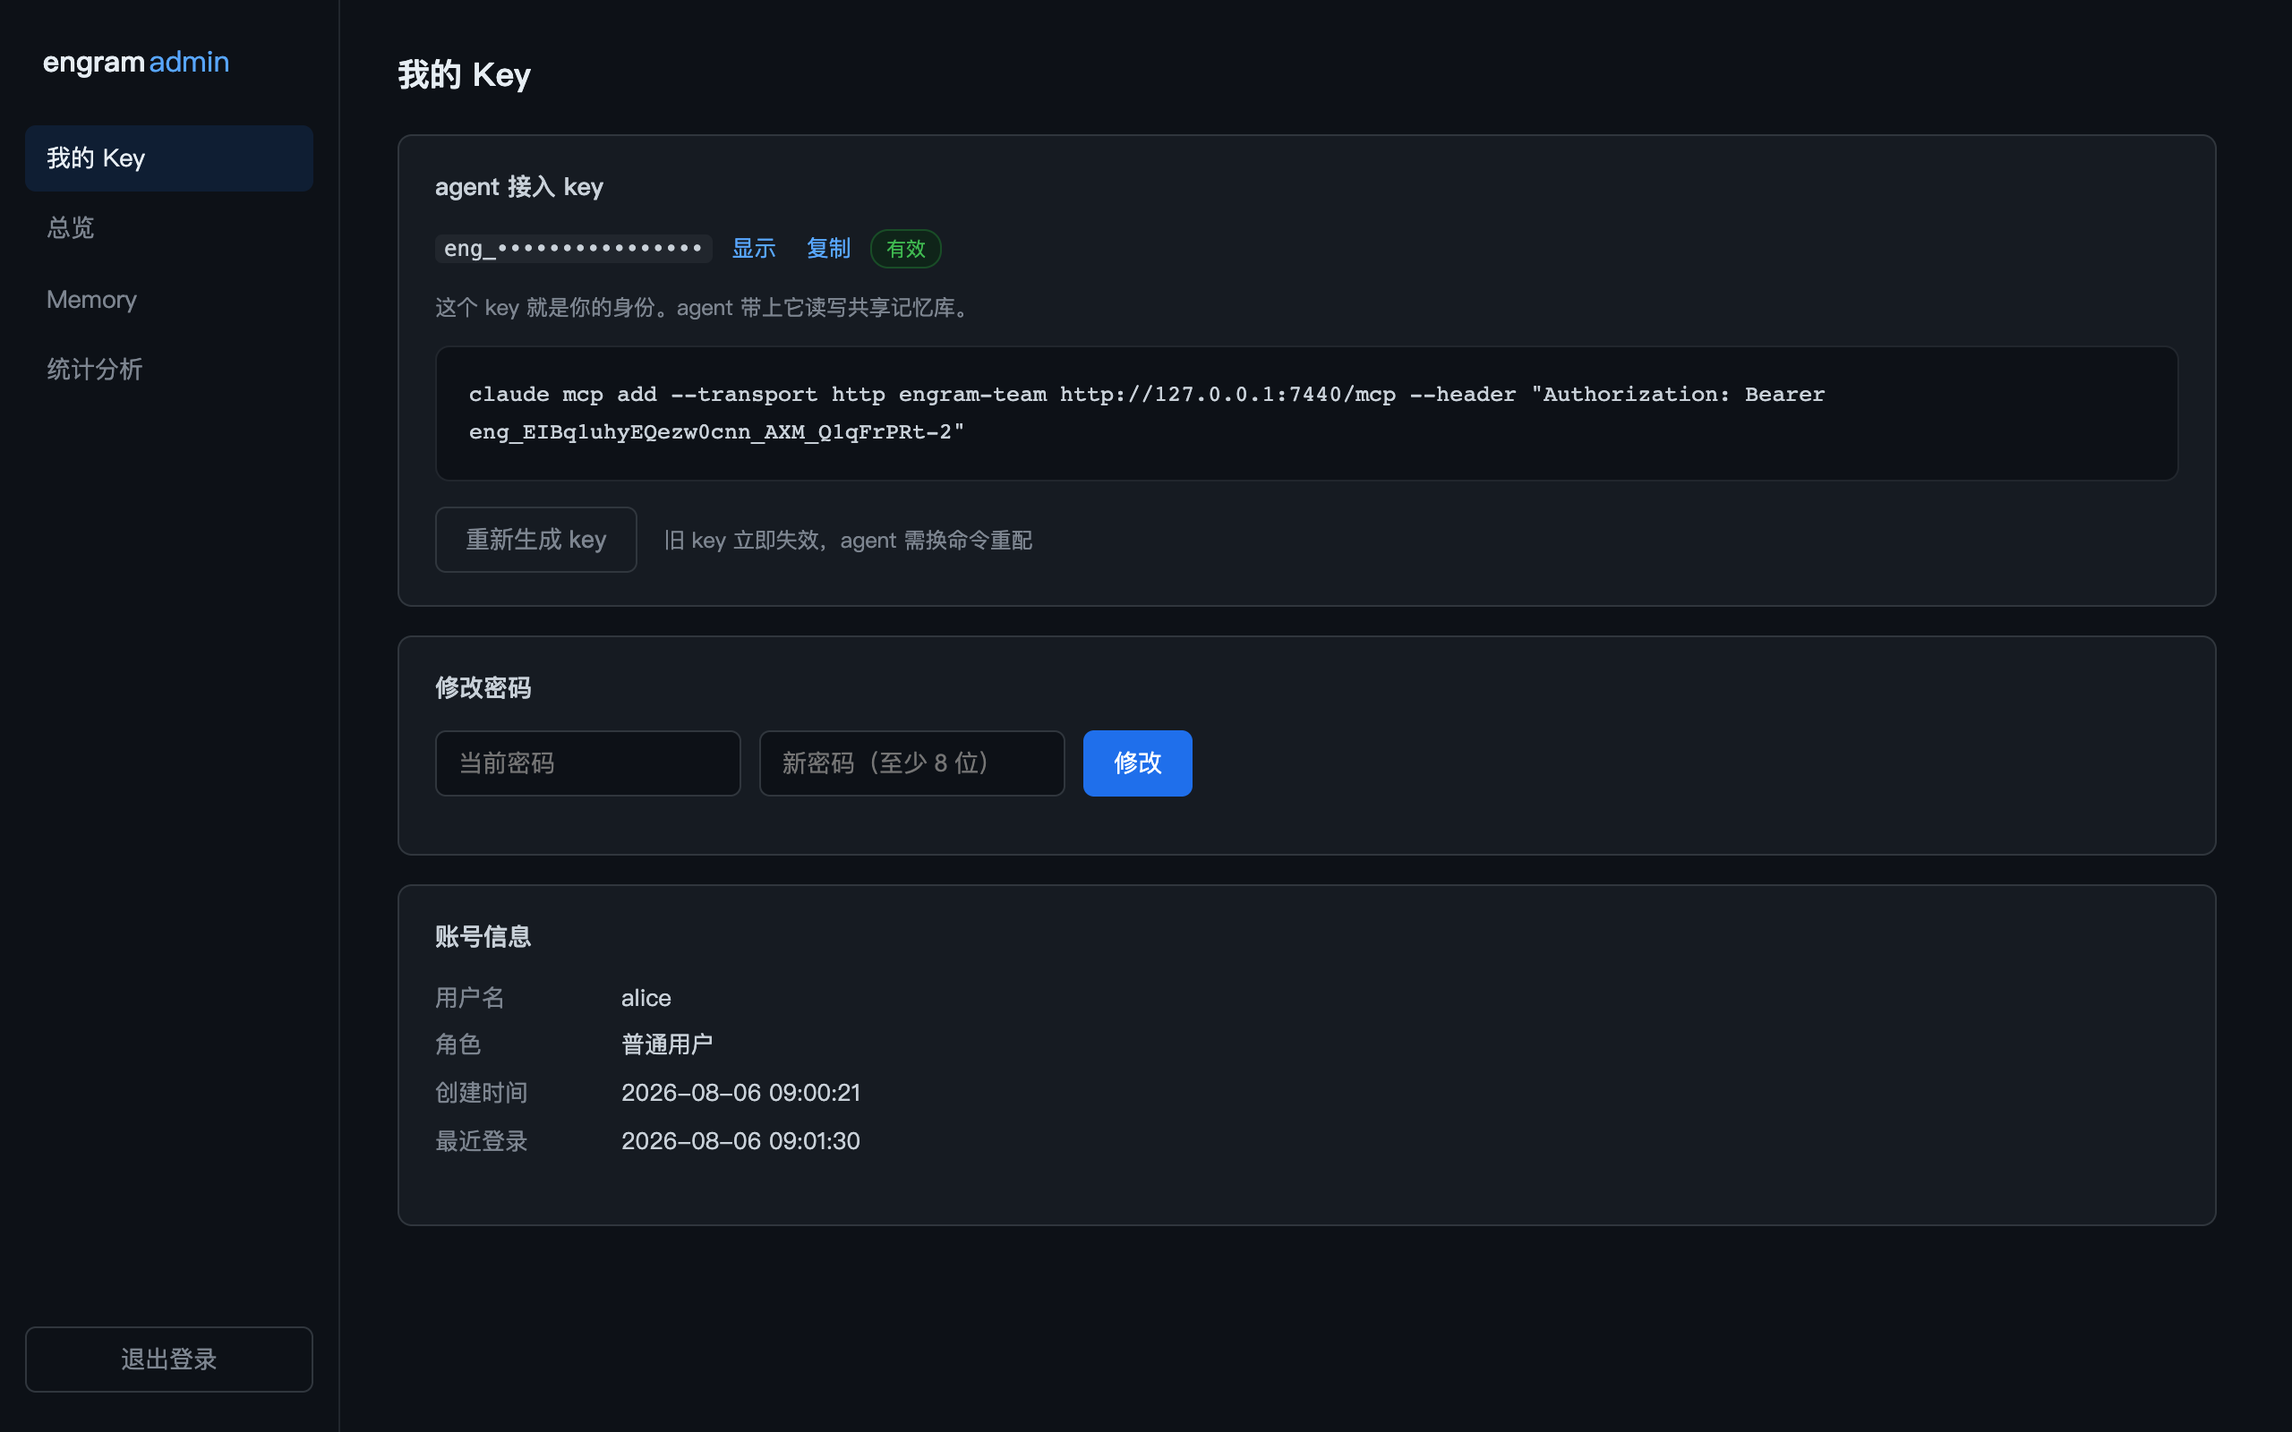
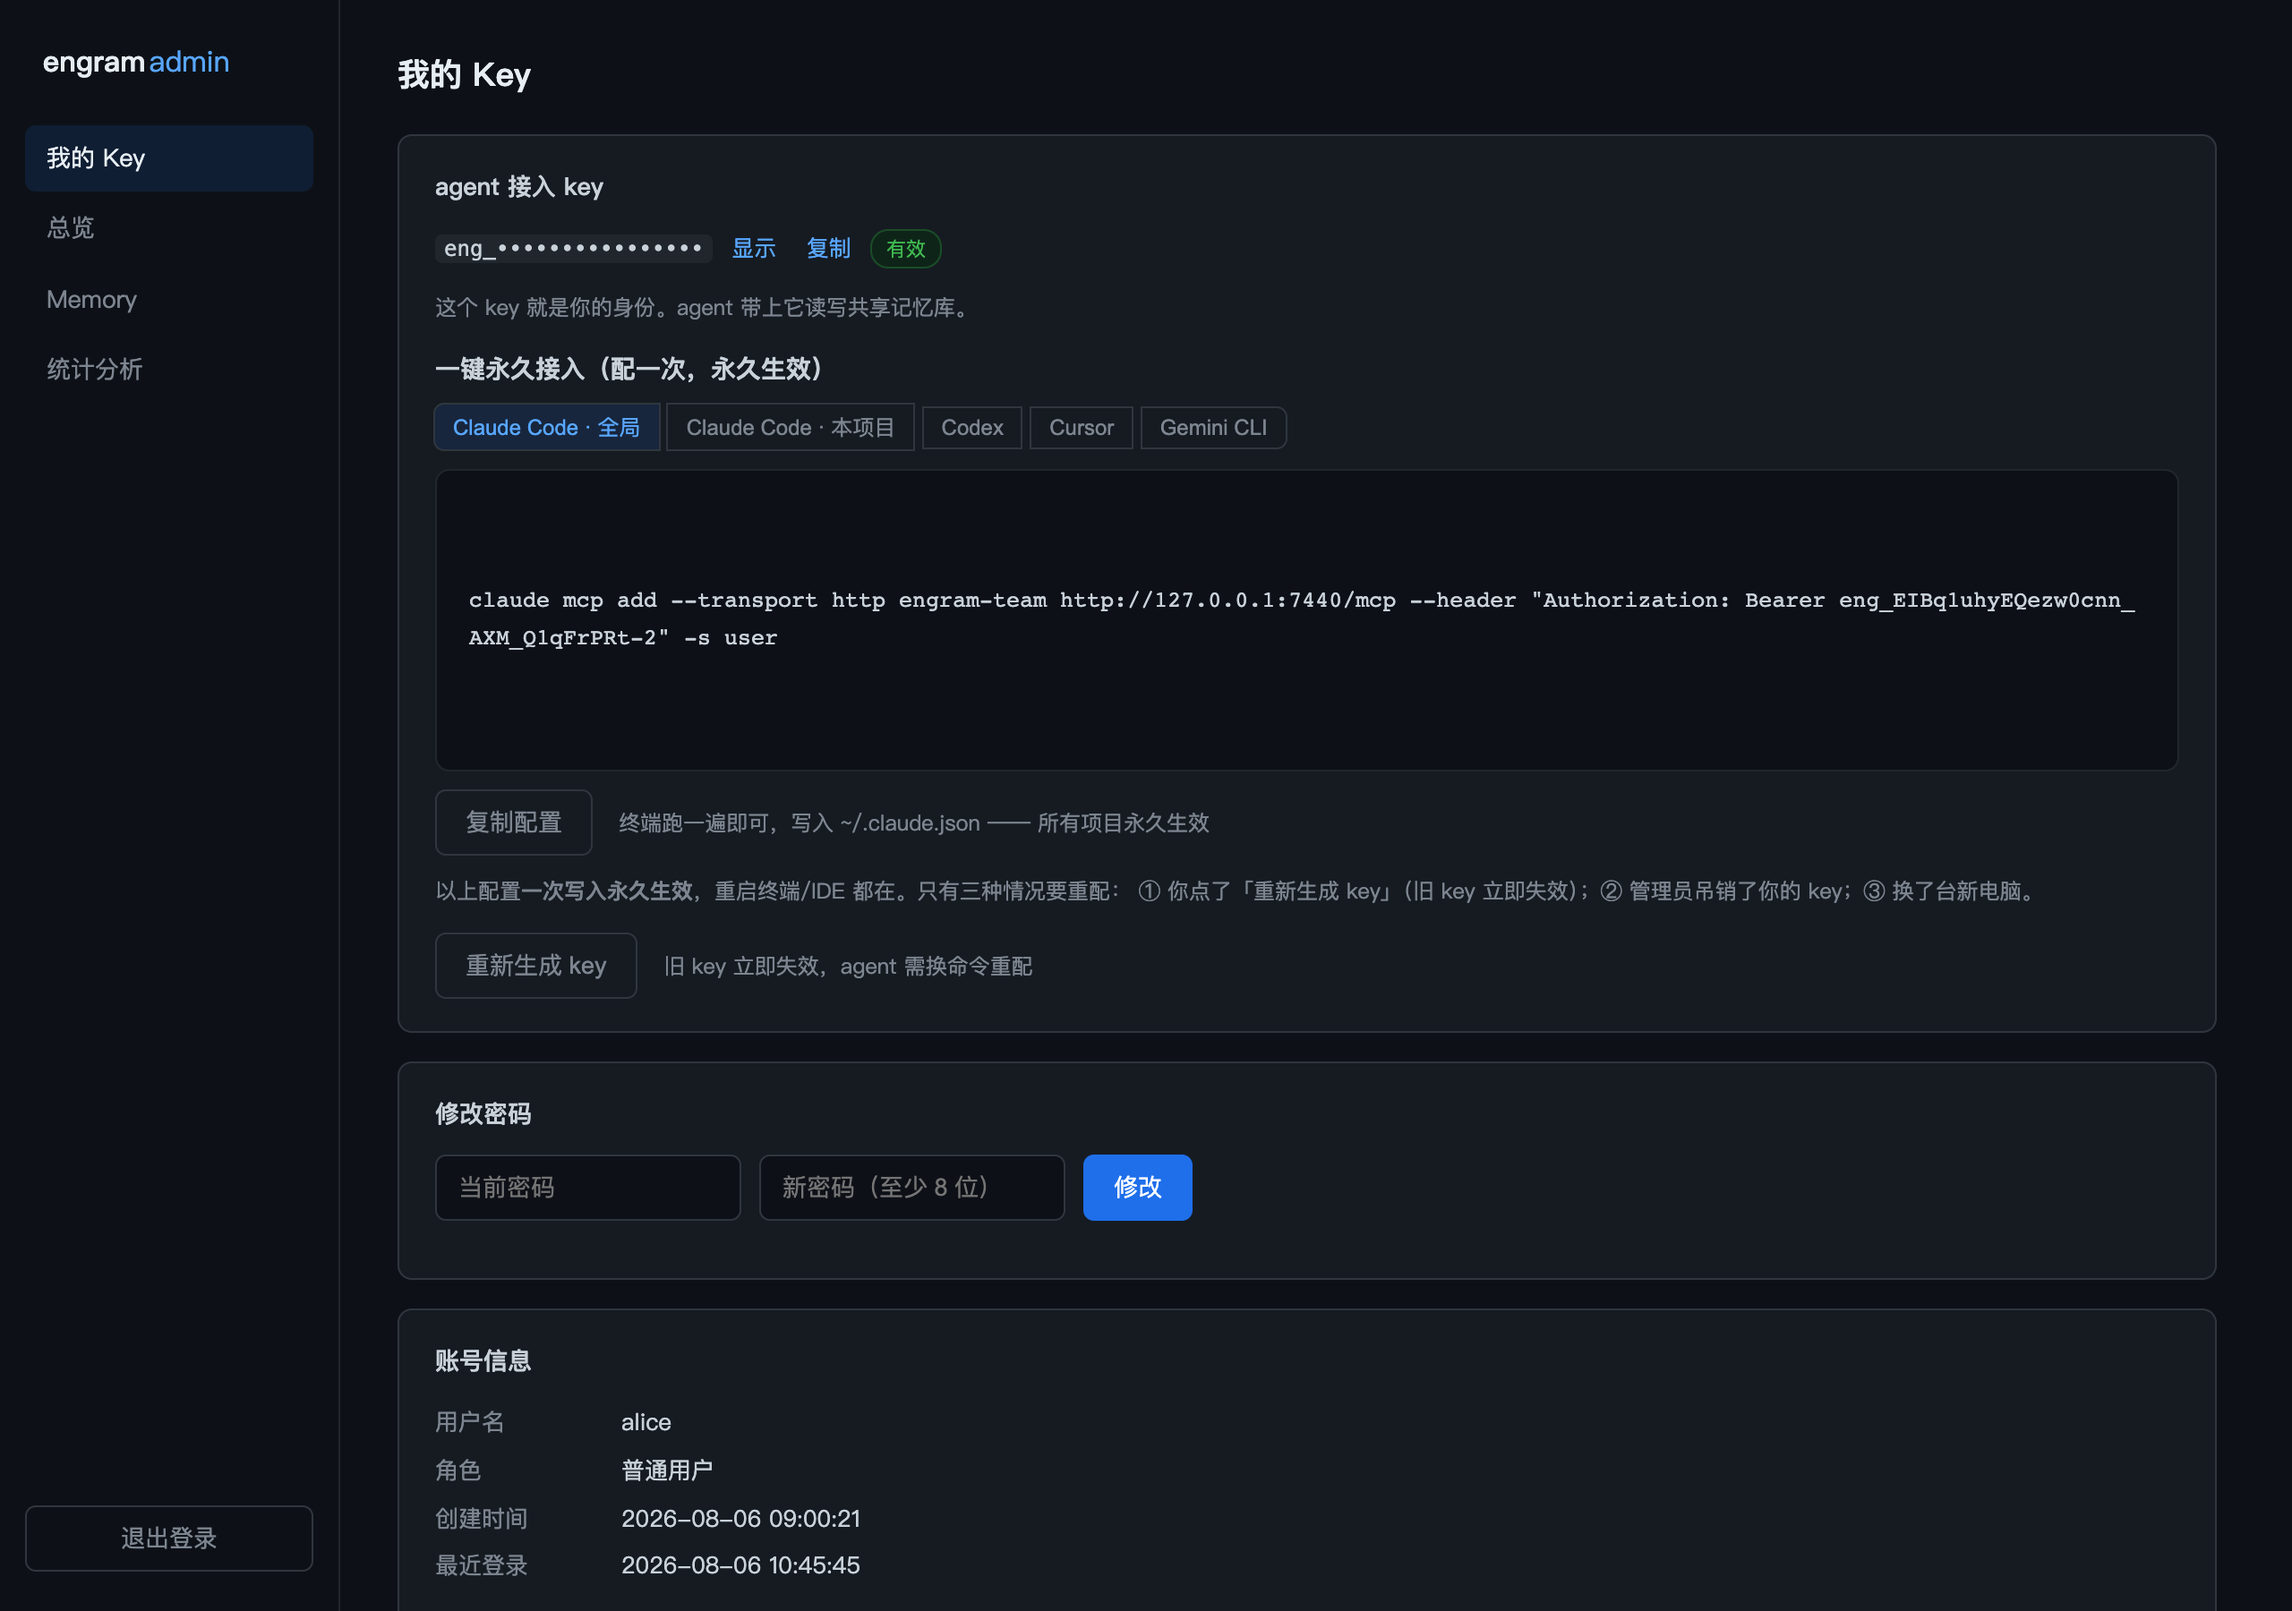
admin: multi-client permanent onboarding on My Key page
- tabbed copy-ready snippets: Claude Code (-s user / -s project), Codex
  (config.toml), Cursor (mcp.json), Gemini CLI (settings.json)
- per-snippet copy button + hint showing which file it lands in
- docs: CONFIG.md client onboarding rewritten per-client; me.png updated

diff --git a/admin/static/app.js b/admin/static/app.js
@@ -169,7 +169,7 @@ function renderMeToken(d) {
   const has = !!meState.token;
   $("#me-token-row").classList.toggle("hidden", !has);
   $("#me-no-token").classList.toggle("hidden", has);
-  $("#me-join-cmd").parentElement && ($("#me-join-cmd").style.display = has ? "" : "none");
+  $("#me-join").style.display = has ? "" : "none";
   if (!has) return;
   const shown = meState.revealed ? meState.token : "eng_••••••••••••••••";
   $("#me-token").textContent = shown;
@@ -177,9 +177,52 @@ function renderMeToken(d) {
   const revoked = d && d.token_revoked;
   $("#me-token-state").innerHTML = revoked
     ? ` <span class="tag off">已吊销</span>` : ` <span class="tag ok">有效</span>`;
-  $("#me-join-cmd").textContent =
-    `claude mcp add --transport http engram-team ${state.meta.mcp_url} --header "Authorization: Bearer ${meState.token}"`;
+  renderJoin();
 }
+
+/* join snippets: token already filled, copy-ready */
+const joinState = { key: "claude-user" };
+
+function joinSnippet(k) {
+  const url = state.meta.mcp_url, tok = meState.token;
+  switch (k) {
+    case "claude-user":
+      return `claude mcp add --transport http engram-team ${url} --header "Authorization: Bearer ${tok}" -s user`;
+    case "claude-project":
+      return `claude mcp add --transport http engram-team ${url} --header "Authorization: Bearer ${tok}" -s project`;
+    case "codex":
+      return `# 追加到 ~/.codex/config.toml\n[mcp_servers.engram-team]\nurl = "${url}"\nhttp_headers = { Authorization = "Bearer ${tok}" }`;
+    case "cursor":
+      return `// 合并进 ~/.cursor/mcp.json（保留你已有的其他 server）\n{\n  "mcpServers": {\n    "engram-team": {\n      "url": "${url}",\n      "headers": { "Authorization": "Bearer ${tok}" }\n    }\n  }\n}`;
+    case "gemini":
+      return `// 合并进 ~/.gemini/settings.json（保留你已有的其他 server）\n{\n  "mcpServers": {\n    "engram-team": {\n      "httpUrl": "${url}",\n      "headers": { "Authorization": "Bearer ${tok}" }\n    }\n  }\n}`;
+  }
+  return "";
+}
+
+const JOIN_HINTS = {
+  "claude-user": "终端跑一遍即可，写入 ~/.claude.json —— 所有项目永久生效",
+  "claude-project": "终端跑一遍即可，写入 ./.mcp.json —— 可提交 git 全组共享（注意别泄露 key）",
+  "codex": "手动编辑文件，配置立即生效；Codex 较老版本字段名可能是 experimental_http_headers",
+  "cursor": "手动编辑文件，Cursor 重启后生效（Settings → MCP 可看状态）",
+  "gemini": "手动编辑文件，下次启动 gemini 生效",
+};
+
+function renderJoin() {
+  $("#join-snippet").textContent = joinSnippet(joinState.key);
+  $("#join-hint").textContent = JOIN_HINTS[joinState.key] || "";
+  $("#join-copy").textContent = "复制配置";
+}
+
+document.querySelectorAll("#join-seg button").forEach((b) => (b.onclick = () => {
+  joinState.key = b.dataset.k;
+  document.querySelectorAll("#join-seg button").forEach((x) => x.classList.toggle("on", x === b));
+  renderJoin();
+}));
+
+$("#join-copy").onclick = function () {
+  navigator.clipboard.writeText(joinSnippet(joinState.key)).then(() => (this.textContent = "已复制 ✓"));
+};
 
 $("#me-token-reveal").onclick = function () {
   meState.revealed = !meState.revealed;

diff --git a/admin/static/index.html b/admin/static/index.html
@@ -48,7 +48,27 @@
           <span id="me-token-state"></span>
         </div>
         <p class="muted small">这个 key 就是你的身份。agent 带上它读写共享记忆库。</p>
-        <div class="mem-content" id="me-join-cmd" style="margin-top:12px; font-family:ui-monospace,monospace; font-size:12.5px"></div>
+        <div id="me-join" style="margin-top:14px">
+          <h4 style="margin:0 0 8px">一键永久接入（配一次，永久生效）</h4>
+          <div class="seg" id="join-seg">
+            <button data-k="claude-user" class="on">Claude Code · 全局</button>
+            <button data-k="claude-project">Claude Code · 本项目</button>
+            <button data-k="codex">Codex</button>
+            <button data-k="cursor">Cursor</button>
+            <button data-k="gemini">Gemini CLI</button>
+          </div>
+          <div class="mem-content" style="margin-top:10px">
+            <pre id="join-snippet" style="margin:0;white-space:pre-wrap;word-break:break-all;font-family:ui-monospace,monospace;font-size:12.5px"></pre>
+          </div>
+          <div style="margin-top:10px">
+            <button class="ghost" id="join-copy">复制配置</button>
+            <span class="muted small" id="join-hint" style="margin-left:10px"></span>
+          </div>
+          <p class="muted small" style="margin-top:10px">
+            以上配置<strong>一次写入永久生效</strong>，重启终端/IDE 都在。只有三种情况要重配：
+            ① 你点了「重新生成 key」（旧 key 立即失效）；② 管理员吊销了你的 key；③ 换了台新电脑。
+          </p>
+        </div>
         <div style="margin-top:14px">
           <button class="ghost" id="me-regen">重新生成 key</button>
           <span class="muted small" style="margin-left:10px">旧 key 立即失效，agent 需换命令重配</span>

diff --git a/README.md b/README.md
@@ -48,7 +48,7 @@ Upstream's `engram cloud serve` is a **sync backend** (Postgres + JWT): every cl
 The panel has a real account system with two roles:
 
 - **Admin** (seeded from `ENGRAM_ADMIN_PASS_BCRYPT` on first run): everything a member can do, plus **User management** (create/disable/reset-password/delete accounts) and the legacy **Token 管理** page. Deleting a user also deletes their agent token.
-- **Member**: logs in with username + password, lands on **我的 Key / My Key** — one click to mint or regenerate their personal agent token (old one dies instantly, hot-reloaded by the server), plus a copy-ready `claude mcp add` command with the token already filled in. Members can also change their own password and browse the read-only memory/stats pages.
+- **Member**: logs in with username + password, lands on **我的 Key / My Key** — one click to mint or regenerate their personal agent token (old one dies instantly, hot-reloaded by the server), plus **copy-ready permanent-config snippets for Claude Code (global `-s user` / project `-s project`), Codex, Cursor, and Gemini CLI**, each with its own copy button and the config file path it lands in. Members can also change their own password and browse the read-only memory/stats pages.
 
 Sessions carry roles; every admin-only API is enforced server-side (`403` for members), not just hidden in the nav.
 
@@ -180,7 +180,7 @@ No TLS — it is plain HTTP inside your LAN. Do not expose either port outside i
 面板是完整的账号系统，两种角色：
 
 - **管理员**（首次启动用 `ENGRAM_ADMIN_PASS_BCRYPT` 播种）：拥有成员全部能力，外加**用户管理**（开通/禁用/重置密码/删除，删除会连带吊销并删除该用户的 agent token）和 **Token 管理**页。
-- **普通成员**：用户名 + 密码登录，落地页就是**我的 Key**——一键生成/重新生成自己的 agent key（旧 key 立即失效，服务端热重载），页面直接给出已填好 token 的 `claude mcp add` 接入命令，复制即用。成员还可以自助改密码、浏览只读的 memory/统计页。
+- **普通成员**：用户名 + 密码登录，落地页就是**我的 Key**——一键生成/重新生成自己的 agent key（旧 key 立即失效，服务端热重载），并提供 **Claude Code（全局 `-s user` / 本项目 `-s project`）、Codex、Cursor、Gemini CLI 四种客户端的永久配置片段**，每段都带复制按钮和它写入的配置文件路径说明，复制即用、一次配置永久生效。成员还可以自助改密码、浏览只读的 memory/统计页。
 
 会话带角色，所有管理员 API 在服务端强校验（成员访问返回 403），不只是藏导航。
 

diff --git a/docs/CONFIG.md b/docs/CONFIG.md
@@ -169,14 +169,58 @@ ENGRAM_MCP_TOKENS_FILE=/etc/engram-mcp/tokens.json
 
 ## 6. Client onboarding · 同事接入
 
+The panel's **我的 Key / My Key** page generates every snippet below with the member's token already filled in, plus a copy button — members never hand-edit a token. All of them are **write-once, permanent**: re-config only after regenerating the key, revocation, or a new machine. / 面板「我的 Key」页已把下列配置按成员 token 填好，一键复制。全部一次配置永久生效，只有重生 key / 被吊销 / 换电脑才需要重配。
+
+### Claude Code
+
 ```bash
+# global, all projects (recommended) · 全局，所有项目生效
 claude mcp add --transport http engram-team http://<server>:7440/mcp \
-  --header "Authorization: Bearer <token>"
+  --header "Authorization: Bearer <token>" -s user        # writes ~/.claude.json
+
+# this project only, shareable via git · 仅本项目，.mcp.json 可提交共享
+claude mcp add --transport http engram-team http://<server>:7440/mcp \
+  --header "Authorization: Bearer <token>" -s project     # writes ./.mcp.json
+
 # verify
 claude mcp list   # expect: engram-team … ✔ Connected
 ```
 
-Other agents (Codex / Gemini CLI / Cursor): use their HTTP-transport MCP config with the same URL and header.
+### Codex — append to `~/.codex/config.toml`
+
+```toml
+[mcp_servers.engram-team]
+url = "http://<server>:7440/mcp"
+http_headers = { Authorization = "Bearer <token>" }
+```
+
+### Cursor — merge into `~/.cursor/mcp.json`
+
+```json
+{
+  "mcpServers": {
+    "engram-team": {
+      "url": "http://<server>:7440/mcp",
+      "headers": { "Authorization": "Bearer <token>" }
+    }
+  }
+}
+```
+
+### Gemini CLI — merge into `~/.gemini/settings.json`
+
+```json
+{
+  "mcpServers": {
+    "engram-team": {
+      "httpUrl": "http://<server>:7440/mcp",
+      "headers": { "Authorization": "Bearer <token>" }
+    }
+  }
+}
+```
+
+Other agents: use their HTTP-transport MCP config with the same URL and `Authorization: Bearer <token>` header.
 
 ## 7. Uninstall · 完全卸载
 
